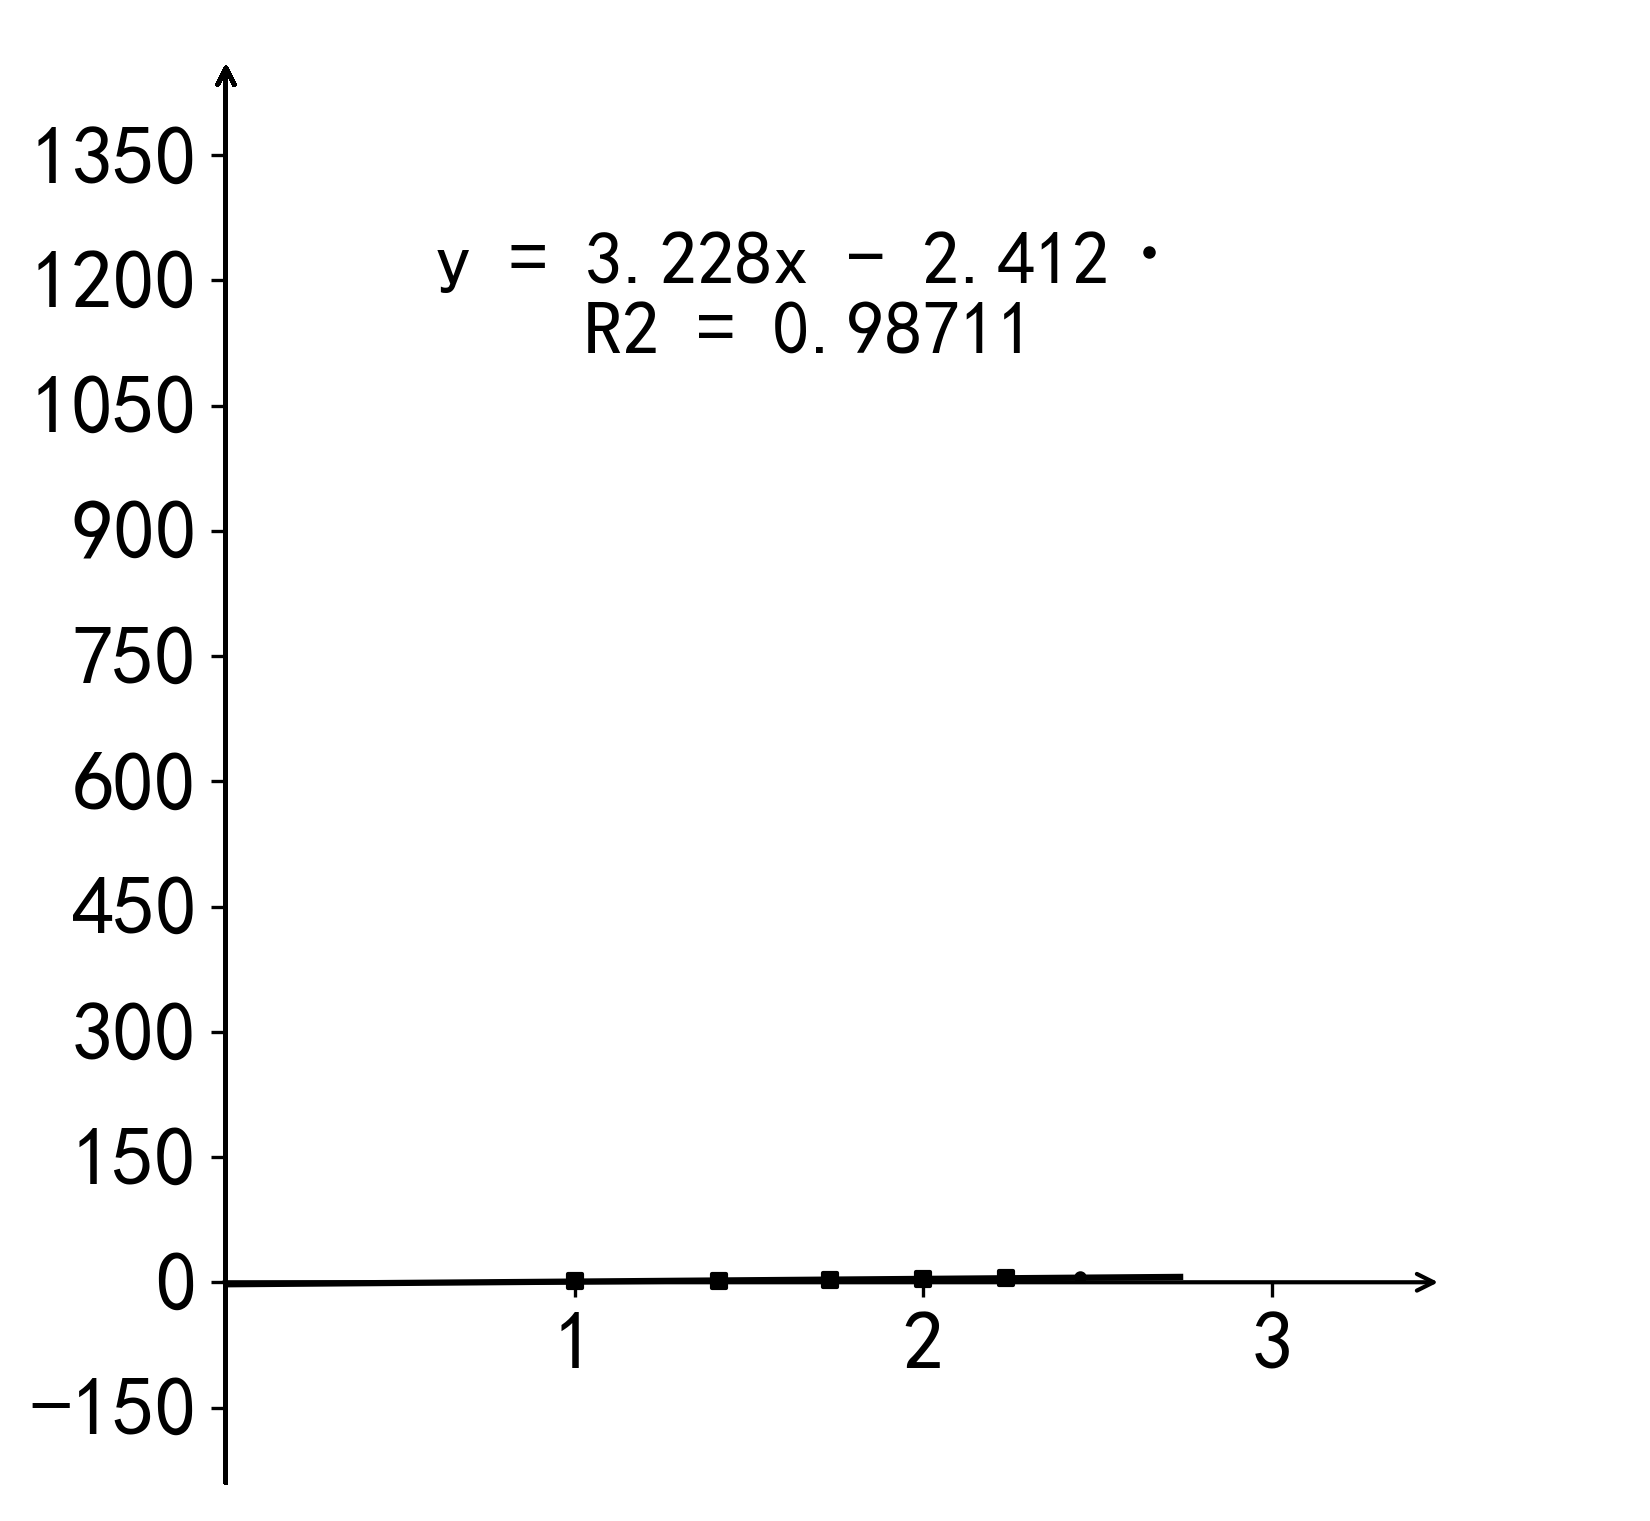
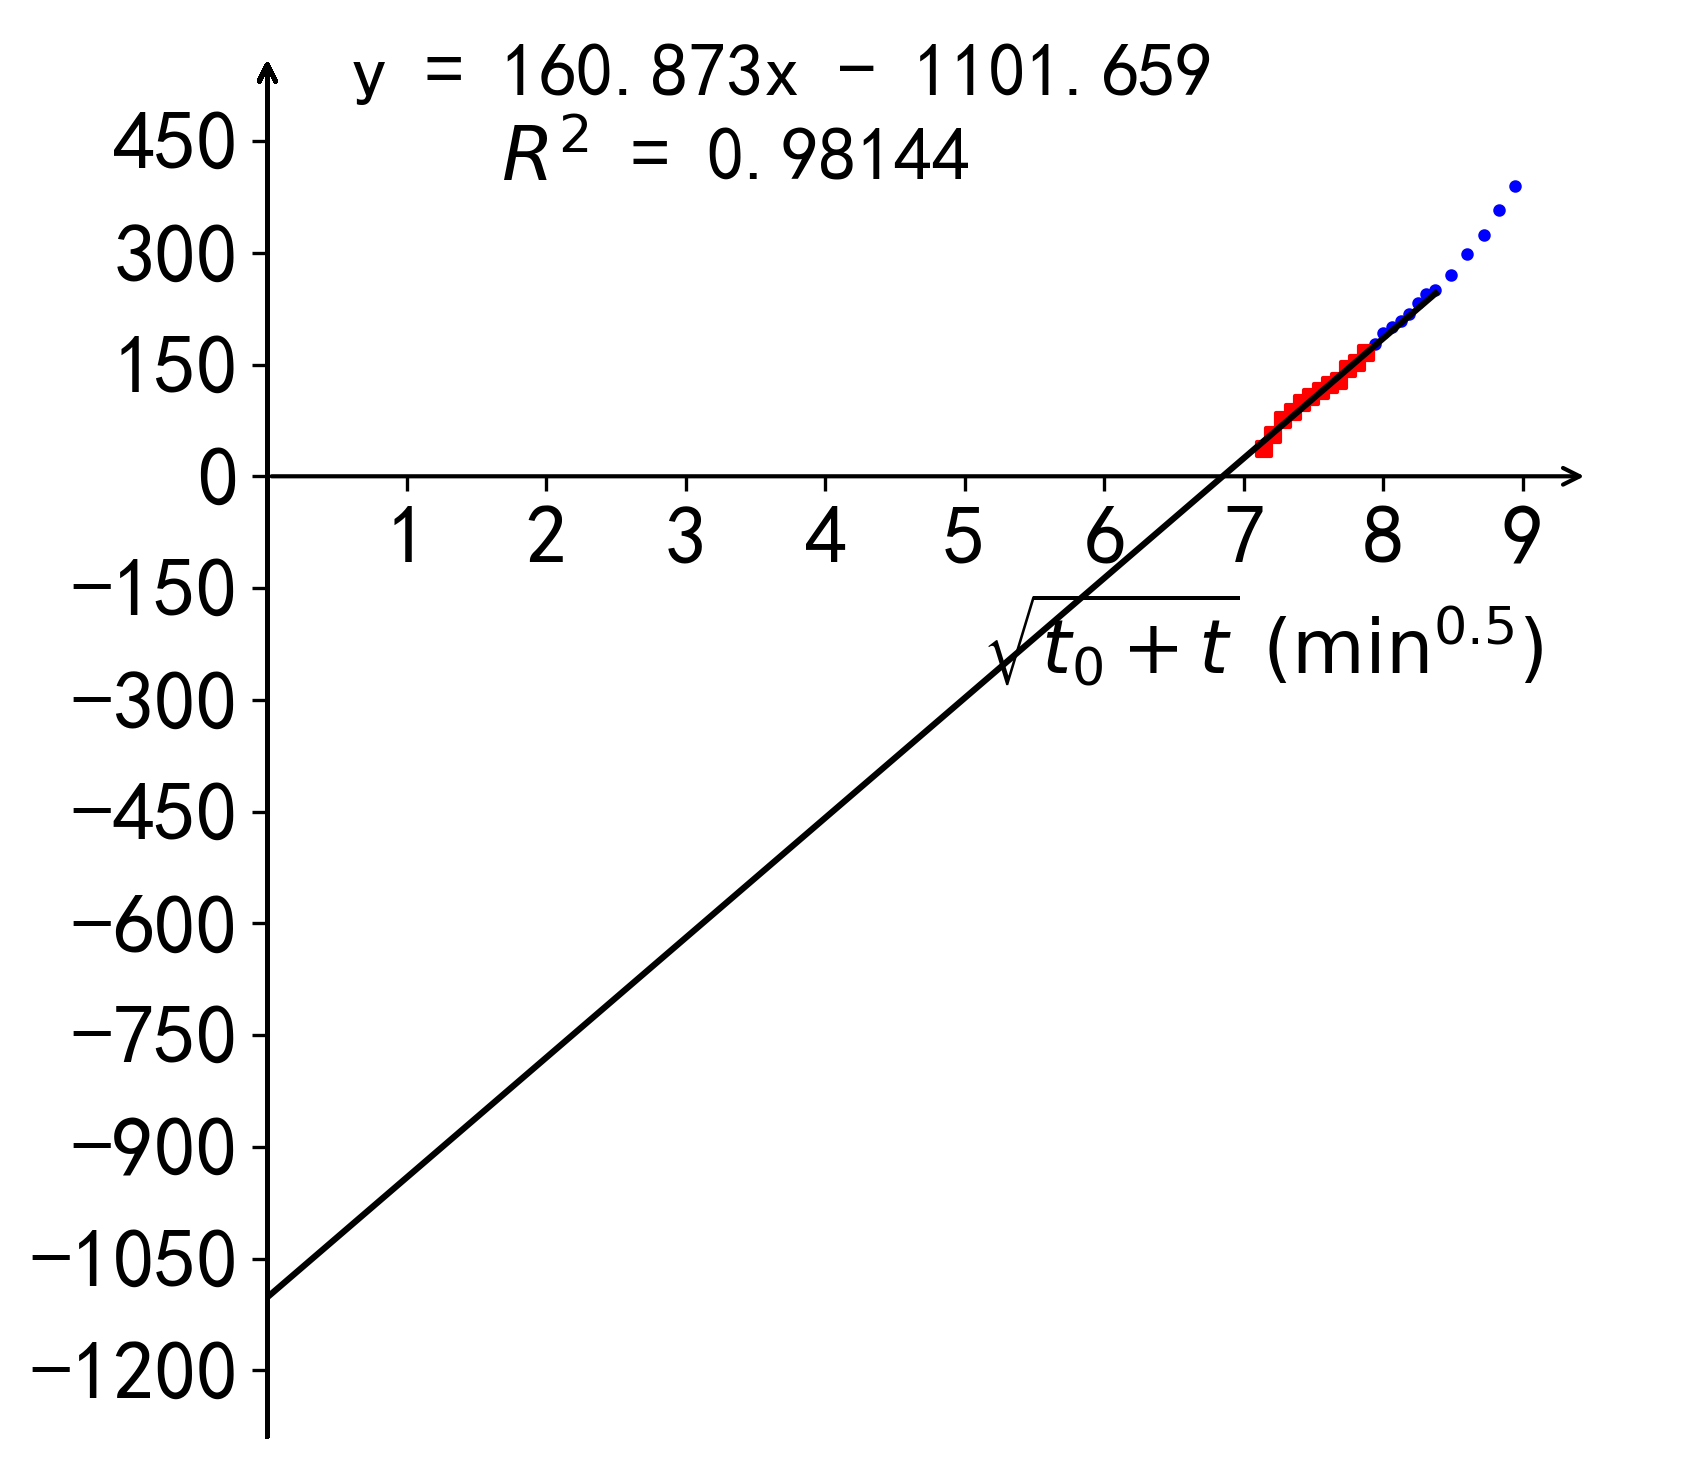
补充文件

diff --git a/Python_embed/Python/bbb.py b/Python_embed/Python/bbb.py
@@ -138,8 +138,25 @@ clear_shared_memory()
 print("读取到的 int 值是：", val)
 
 from docx.enum.text import WD_ALIGN_PARAGRAPH  # 添加这一行
+from docx.oxml import OxmlElement
+from docx.oxml.ns import qn
+from docx.shared import Cm
+from docx.enum.text import WD_ALIGN_PARAGRAPH
+from docx.text.paragraph import Paragraph
+from PIL import Image
+import uuid
+import os
+
 def insert_picture_after_bookmark(doc, bookmark_name, image_path):
-    # 找到bookmarkStart元素
+    """
+    在指定书签所在段落之后插入裁剪后的图片。
+
+    :param doc: python-docx 的 Document 对象
+    :param bookmark_name: Word 中书签的名称
+    :param image_path: 图片路径（将会被裁剪右边一部分）
+    :return: 修改后的 Document 对象
+    """
+    # 找到 bookmarkStart 元素
     bookmark_elem = None
     for child in doc.element.iter():
         if child.tag == qn('w:bookmarkStart') and child.get(qn('w:name')) == bookmark_name:
@@ -148,25 +165,45 @@ def insert_picture_after_bookmark(doc, bookmark_name, image_path):
     if bookmark_elem is None:
         raise ValueError(f"书签 '{bookmark_name}' 未找到")
 
-    # 获取书签所在段落节点（bookmarkElem的祖先w:p）
+    # 获取书签所在段落节点（w:p）
     para_elem = bookmark_elem
-    while para_elem.tag != qn('w:p'):
+    while para_elem is not None and para_elem.tag != qn('w:p'):
         para_elem = para_elem.getparent()
-        if para_elem is None:
-            raise RuntimeError("没找到对应段落")
+    if para_elem is None:
+        raise RuntimeError("找不到书签所在的段落")
 
-    # 在段落后插入一个新段落
+    # 创建一个新段落并插入到书签段落之后
     new_p = OxmlElement('w:p')
     para_elem.addnext(new_p)
 
-    # 用 python-docx 的 Document 对象包装该段落方便插入图片
-    from docx.text.paragraph import Paragraph
+    # 使用 python-docx 封装新段落
     new_para = Paragraph(new_p, doc)
-    new_para.alignment = WD_ALIGN_PARAGRAPH.RIGHT  # 添加这一行：设置右对齐
+    new_para.alignment = WD_ALIGN_PARAGRAPH.RIGHT
 
-    new_para.add_run().add_picture(image_path, width=Cm(6.77), height=Cm(6.77))
+    a = 0.08  # 右边裁剪比例（例如裁剪右边 8%）
+    b = 0.02  # 左边裁剪比例（例如裁剪左边 5%）
+
+    # 用 Pillow 打开并裁剪图片
+    with Image.open(image_path) as img:
+        width, height = img.size
+        left = int(width * b)
+        right = int(width * (1 - a))  # 裁掉右边 a 比例
+        cropped = img.crop((left, 0, right, height))  # (left, upper, right, lower)
+
+        # 保存为临时文件
+        temp_path = f"temp_{uuid.uuid4().hex}.png"
+        cropped.save(temp_path)
+
+    try:
+        # 插入裁剪后的图片
+        new_para.add_run().add_picture(temp_path, width=Cm(6.77 * (1-a)), height=Cm(6.77))
+    finally:
+        # 删除临时图片文件（确保无论是否出错都清理）
+        if os.path.exists(temp_path):
+            os.remove(temp_path)
 
     return doc
+
 
 import os
 

diff --git a/Python_embed/Python/aaa.py b/Python_embed/Python/aaa.py
@@ -155,12 +155,12 @@ for item in x:
     print(to_sqrt_form_auto(item))
 
 # 绘制散点图(原始数据)和拟合线
-ax.scatter(x, y, s=4, color='black', label='原始数据')
+ax.scatter(x, y, s=4, color='blue', label='原始数据')
 data = read_shared_memory()[:DataExtentEnd]
 # 先筛选出满足条件的点
 x = np.array([row[0] for row in data if row[0] != 0 and row[1] != 0])
 y = np.array([row[1] for row in data if row[0] != 0 and row[1] != 0])
-ax.scatter(x, y, s=10, color='black', marker='s',label='原始数据')
+ax.scatter(x, y, s=12, color='red', marker='s',label='原始数据')
 slope = best_coefficients[0]
 intercept = best_coefficients[1]
 x_new = np.linspace(0, np.max(x)+0.5, 100)
@@ -169,7 +169,16 @@ ax.plot(x_new, y_new, color='black', label=f'拟合线: y = {slope:.3f}x + {inte
 
 sign = '+' if intercept >= 0 else '-'
 abs_intercept = abs(intercept)
-ax.text(0.6, ax.get_ylim()[1]-ax.get_ylim()[1]/7, f'y = {slope:.3f}x {sign} {abs_intercept:.3f} \n    R2 = {best_r2:.5f}', fontsize=18, color='black')
+ax.text(0.6, ax.get_ylim()[1]-ax.get_ylim()[1]/7, f'y = {slope:.3f}x {sign} {abs_intercept:.3f} \n    $R^2$ = {best_r2:.5f}', fontsize=18, color='black')
+
+# ax.text(
+#     0.95, ax.get_ylim()[1]-ax.get_ylim()[1],
+#     r'$\sqrt{t_0 + t}\ (\mathrm{min}^{0.5})$',
+#     transform=ax.transAxes,  # 使用坐标轴单位（0~1）
+#     ha='right',
+#     va='top',
+#     fontsize=18
+# )
 
 _xxx = x_max_value_ceil + 1
 _yyy = y_max_value
@@ -248,6 +257,9 @@ ax.set_yticks(yticks)
 ax.tick_params(axis='x', labelsize=20)  # 设置X轴刻度标签字体大小为12
 ax.tick_params(axis='y', labelsize=20)  # 设置Y轴刻度标签字体大小为12
 
+# ax.set_ylabel(r'$\sqrt{t_0 + t}\ (\mathrm{min}^{0.5})$', fontsize=20)
+ax.set_xlabel(r'$\sqrt{t_0 + t}\ (\mathrm{min}^{0.5})$    ', fontsize=18, loc='right')
+
 
 # 设置坐标轴样式
 # ax.spines['top'].set_visible(False)  # 隐藏上边框
@@ -270,6 +282,9 @@ min_tick_shown = min(ax.get_yticks())
 ax.set_ylim(custom_round_up(intercept) - step, max_tick + step)  # 多留一格
 ax.annotate('', xy=(0, max_tick + step - step * 0.2), xytext=(0, min_tick_shown-step/1.5),
             arrowprops=dict(arrowstyle='->', lw=1.0, color='#000000',antialiased=False))  # Y轴箭头
+
+# 显示横坐标单位
+# ax.text(_xxx-1+0.5-3.3, -80, r'$\sqrt{t_0 + t}\ (\mathrm{min}^{0.5})$', fontsize=18, color='black')
 
 print("显示的最小刻度:", min_tick_shown)
 print((n_pos + 1) * step,custom_round_up(intercept)-20,"最大刻度：",max_tick)
